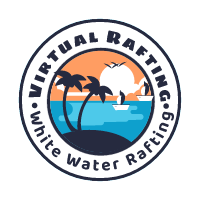
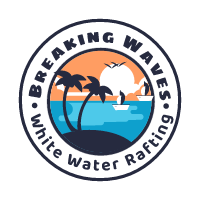
update

diff --git a/wwr/index.html b/wwr/index.html
@@ -1,0 +1,73 @@
+<!DOCTYPE html>
+<html lang="en">
+<head>
+    <meta charset="UTF-8">
+    <meta http-equiv="X-UA-Compatible" content="IE=edge">
+    <meta name="viewport" content="width=device-width, initial-scale=1.0">
+    <title>White Water Rafting | Breaking Waves | Home</title>
+</head>
+<body>
+    <header>
+        <a id="logo_link" href="index.html">
+            <img class="logo" src="images/wwr.png" alt="Virtual Rafting Logo">
+        </a>
+        <nav>
+            <a href="index.html">Home</a>
+            <a href="#">Page 2</a>
+            <a href="site-plan-rafting.html">Site Plan</a>
+            <a href="contactus.html">Contact Us</a>
+        </nav>
+    </header>
+    <div id="hero">
+        <div id="hero-box">
+            <img id="hero-img" src="images/hero.png" alt="People enjoying white water rafting">
+        </div>
+        <section id="hero-msg">
+            <h1 class="home-title">Have An Adventure</h1>
+            <h4>Make Memories with Breaking Waves Rafting</h4>
+            <div class="button-box">
+                <a class="book" href="rates.html">Book Now</a>
+            </div>
+        </section>
+    </div>
+<main class="home-grid">
+    <section class="rivers-card">
+        <img class="card-img" src="images/rivers.jpg" alt="river in forest">
+        <img class="icon" src="images/river_icon.png" alt="river icon">
+        <h2>Rivers</h2>
+    </section>
+    <section class="camping-card">
+        <img class="card-img" src="images/camping.jpg" alt="tent in mountains">
+        <img class="icon" src="images/fire_icon.png" alt="fire icon">
+        <h2>Camping</h2>
+    </section>
+    <section class="rapids-card">
+        <img class="card-img" src="images/rapids.jpg" alt="rafting boat">
+        <img class="icon" src="images/oars.png" alt="oars icon">
+        <h2>Rapids</h2>
+    </section>
+    <img class="mountains" src="images/mountains.jpg" alt="Misty mountains">
+    <section class="msg">
+        <h2>More Than Just The Thrill</h2>
+        <p>Enjoy the breathtaking scenery. From valleys, meadows, canyons, and high peaks; it's way more than just the rapids. It's a great way to get away from it all and relax amongst all the beauty of the great outdoors. </p>
+        <a class='join' href="rivers.html">Join Us</a>
+    </section>
+</main>
+<footer>
+    <p>Virtual Rafting &copy; 2022 - Cameron Pedro</p>
+    <p><a href="site-plan-rafting.html">Site Plan</a></p>
+    <p><a href="contactus.html">Contact Us</a></p>
+    <div class="social">
+        <a href="https://facebook.com">
+            <img src="images/facebook.png" alt="fb icon">
+        </a>
+        <a href="https://twitter.com">
+            <img src="images/twitter.png" alt="twitter icon">
+        </a>
+        <a href="https://instagram.com">
+            <img src="images/instagram.png" alt="instagram icon">
+        </a>
+    </div>
+</footer>
+</body>
+</html>

diff --git a/wwr/site-plan-rafting.html b/wwr/site-plan-rafting.html
@@ -10,7 +10,7 @@
 
 <body>
   <header>
-    <h1>Virtual Rafting Experience Site Plan</h1>
+    <h1>Breaking Waves Rafting Experience Site Plan</h1>
     <h2>Cameron Pedro</h2>
     <h2>WDD 130-22</h2>
     <!-- In the header above, add the name of your site, your name and class number. For example if you are in section 3 you would put WDD 130-03 -->
@@ -20,14 +20,13 @@
     <hr />
     <h2>Overview</h2>
     <h3>Purpose</h3>
-    <p>Our purpose is to seek out your inner explorer and setout on a beginner virtual "White Water Rafting Experience" all without the risk!</p>
+    <p>Our purpose is to seek out your inner explorer and setout on an advanced White Water Rafting Experience all while visiting the most remote places on earth!</p>
     <!-- change this -->
 
     <h3>Audience</h3>
-    <p>Our audience is the beginner outdoors men and women who want to get their feet "wet" by white water rafting in our simulator to virtually experience the thrill with no 
-      need to ever leave the comfort of the indoors. The initial userbase would target the older and younger generations who don't quite have the experience or may be past their prime
-      to attempt such an activity. The user would access our website via any device to find a location near them and to call for reservations. They may also see other user feedback, 
-      as well as price points for experiences.
+    <p>Our audience is the intermediate / advanced outdoors men and women who want to experience the most remote rivers, caves, and cliffs in the world while hauling down 
+      the exciting vicious water ways. The initial userbase would target the athletically fit and emotionally healthy age group who are certified to participate on these expeditions.
+      The user would access our website via any device to find a pre-determined date to schedule an expedition with one of our professional guides.
     </p>
     <!-- change this -->
 
